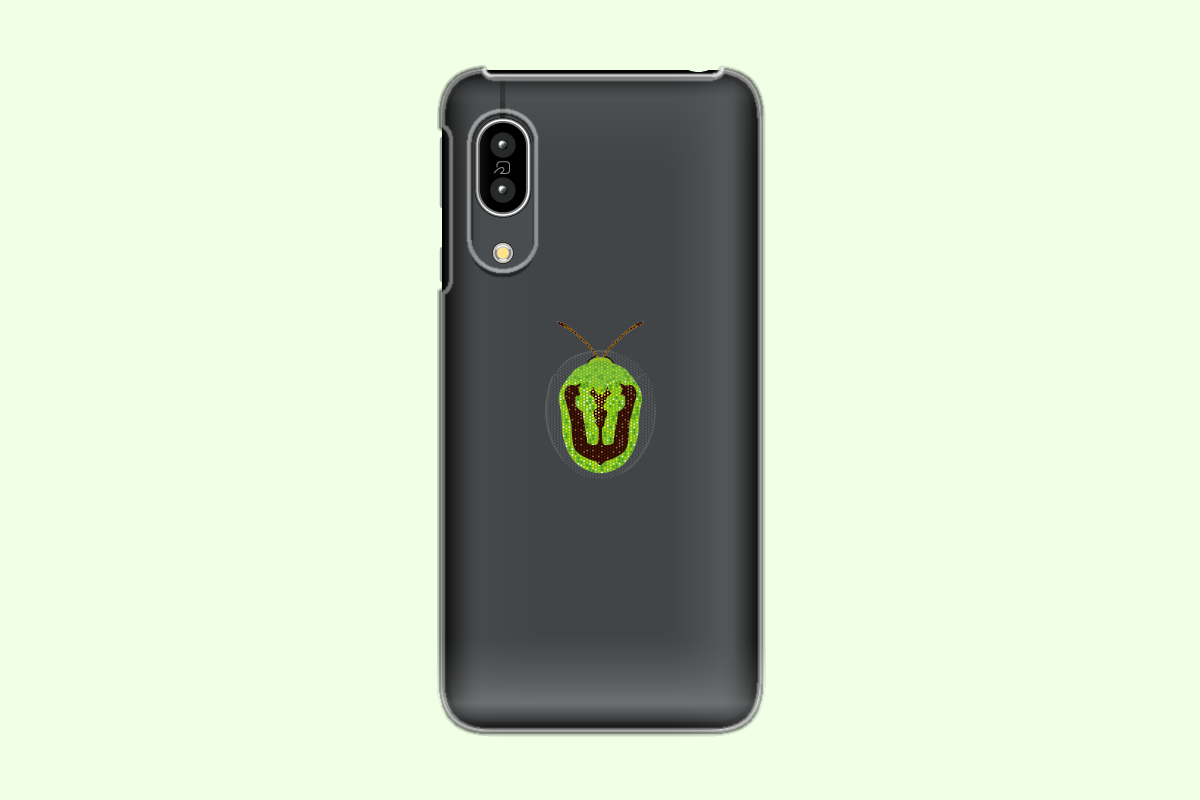
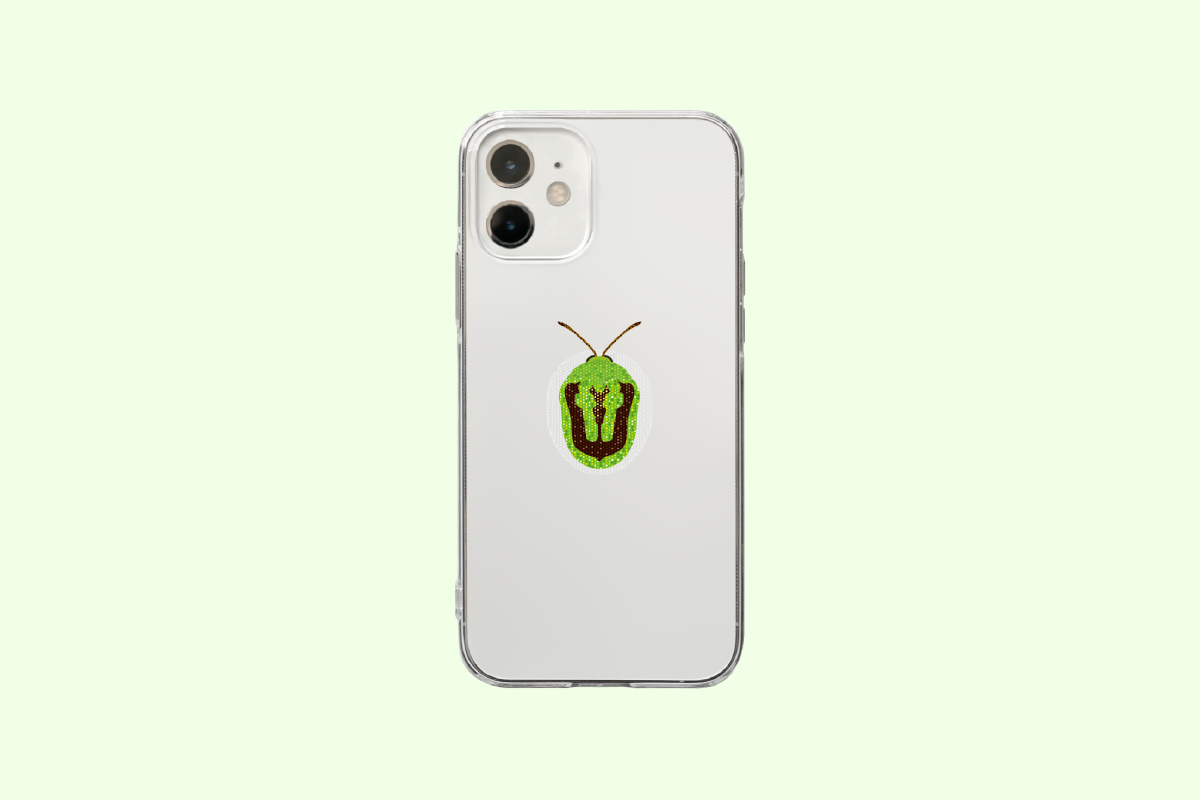
add: Prices in works page

Changed region(s): [[0.3392, 0.0625, 0.6475, 0.9375]]

diff --git a/worksData/works.tsx b/worksData/works.tsx
@@ -4,6 +4,8 @@ const worksData: Work[] = [
   {
     id: "tentou-playing-cards",
     title: "テントウトランプ",
+    price: "¥ 2,800",
+    category: "トランプ",
     descriptionShort: "日本には現在約190種のテントウムシがいます。その中から、トランプの数字に対応する模様を持った36種を選び、リアルなイラストに仕上げました。",
     descriptionLong: "日本には現在約190種のテントウムシがいます。その中から、トランプの数字に対応する模様を持った36種を選び、リアルなイラストに仕上げました。それぞれの種類の体型・触角・眼・脚など、各部位の形状にもこだわった、超マニアックな一品です！",
     imageUrl: [
@@ -20,6 +22,8 @@ const worksData: Work[] = [
   {
     id: "horseshoecrab-papercraft",
     title: "カブトガニの幼生のペーパークラフト",
+    price: "¥ 500",
+    category: "ペーパークラフト",
     descriptionShort: "カブトガニの10齢幼生のペーパークラフトです。細かいパーツまでリアルな作りになっています。",
     descriptionLong: "カブトガニの10齢幼生のペーパークラフトです。細かいパーツまでリアルな作りになっています。ご購入いただくと、PDFファイルの展開図がダウンロードできます。ぜひ紙で立体作品を作る楽しさを見つけてみてください！",
     imageUrl: [
@@ -34,6 +38,8 @@ const worksData: Work[] = [
   {
     id: "maimaikaburi-papercraft",
     title: "マイマイカブリのペーパークラフト",
+    price: "¥ 500",
+    category: "ペーパークラフト",
     descriptionShort: "マイマイカブリ基亜種（ホンマイ）のペーパークラフトです。ぜひ紙で立体作品を作る楽しさを見つけてみてください！",
     descriptionLong: "マイマイカブリ基亜種（ホンマイ）のペーパークラフトです。曲線に沿って折ることで立体感を表現しています。ご購入いただくと、PDFファイルの展開図がダウンロードできます。ぜひ紙で立体作品を作る楽しさを見つけてみてください！",
     imageUrl: [
@@ -48,6 +54,8 @@ const worksData: Work[] = [
   {
     id: "kamenokotentou-papercraft",
     title: "カメノコテントウのペーパークラフト",
+    price: "¥ 500",
+    category: "ペーパークラフト",
     descriptionShort: "日本最大級のテントウムシ、カメノコテントウ。細かいパーツまでリアルに作りました。切り込みを模様に重ね、継ぎ目の見えない構造になっています。",
     descriptionLong: "日本最大級のテントウムシ、カメノコテントウ。細かいパーツまでリアルに作りました。切り込みを模様に重ね、継ぎ目の見えない構造になっています。ご購入いただくと、PDFファイルの展開図がダウンロードできます。ぜひ手のひらサイズのカメノコテントウを作ってみてください!",
     imageUrl: [
@@ -62,6 +70,8 @@ const worksData: Work[] = [
   {
     id: "tentou-postcard-1",
     title: "テントウムシの正面顔絵はがき",
+    price: "¥ 800",
+    category: "絵はがきセット",
     descriptionShort: "普段なかなか見ることのないテントウムシの正面顔を絵はがきにしました。種類によって様々な特徴があることに気付くと、虫を見る楽しみが更に増えていくと思います！",
     descriptionLong: "普段なかなか見ることのないテントウムシの正面顔を絵はがきにしました。カメノコテントウ、ムネアカオオクロテントウ、ハラグロオオテントウ(幼虫)、ハイイロテントウ、アミダテントウのセットです。種類によって眼の大きさ・頭の模様・体型など、様々な特徴があることに気付くと、虫を見る楽しみが更に増えていくと思います。",
     imageUrl: [
@@ -75,6 +85,8 @@ const worksData: Work[] = [
   {
     id: "tentou-postcard-2",
     title: "テントウムシの絵はがき2",
+    price: "¥ 800",
+    category: "絵はがきセット",
     descriptionShort: "テントウムシ絵はがきの第２弾です。第１弾は正面顔ですが、今回は同じ種類の別の角度からの写真です。テントウムシの多様な姿をお楽しみください",
     descriptionLong: "テントウムシ絵はがきの第２弾です。第１弾は正面顔ですが、今回は同じ種類の別の角度からの写真です。カメノコテントウ、ムネアカオオクロテントウ、ハラグロオオテントウ(幼虫)、ハイイロテントウ、アミダテントウのセットです。テントウムシの多様な姿をお楽しみください!",
     imageUrl: [
@@ -88,6 +100,8 @@ const worksData: Work[] = [
   {
     id: "kasai-tshirt",
     title: "カサイテントウのTシャツ",
+    price: "¥ 3,619",
+    category: "Tシャツ",
     descriptionShort: "珍しい、かっこいい、大きいという、珍・美・大を兼ね備えたカサイテントウの模様を抜き出してデザインしました。日本で似た模様のテントウはおらず、特別感の強い、作者も憧れの種です。",
     descriptionLong: "珍しい、かっこいい、大きいという、珍・美・大を兼ね備えたカサイテントウの模様を抜き出してデザインしました。北海道の一部にしか分布せず、五葉松の仲間につくアブラムシを食べます。日本で似た模様のテントウはおらず、特別感の強い、作者も憧れの種です。",
     imageUrl: [
@@ -101,6 +115,8 @@ const worksData: Work[] = [
   {
     id: "amida-tshirt",
     title: "アミダテントウのTシャツ",
+    price: "¥ 3,619",
+    category: "Tシャツ",
     descriptionShort: "アミダテントウAmida tricolor (Harold, 1878)の模様のTシャツです。",
     descriptionLong: "アミダテントウAmida tricolor (Harold, 1878)の模様のTシャツです。",
     imageUrl: [
@@ -114,6 +130,8 @@ const worksData: Work[] = [
   {
     id: "yahoshi-tshirt",
     title: "ヤホシテントウのTシャツ",
+    price: "¥ 2,882 - 3,619",
+    category: "Tシャツ",
     descriptionShort: "沖縄より南にしかいないテントウムシ。湿地に生える植物の葉の上で生活しています。様々なバリエーションの模様をしているのにヤホシという名前が付いているのは、学名から取っているからでしょう。",
     descriptionLong: "沖縄より南にしかいないテントウムシ、ヤホシテントウのTシャツです！湿地に生える植物の葉の上で生活しています。様々なバリエーションの模様をしているのにヤホシという名前が付いているのは、学名から取っているからでしょう。",
     imageUrl: [
@@ -127,6 +145,8 @@ const worksData: Work[] = [
   {
     id: "kasai-tshirt-smallscale",
     title: "カサイテントウのワンポイントTシャツ",
+    price: "¥ 2,882 - 3,619",
+    category: "Tシャツ",
     descriptionShort: "珍しい、かっこいい、大きいという、珍・美・大を兼ね備えたカサイテントウの模様を抜き出してデザインしました。北海道の一部にしか分布せず、五葉松の仲間につくアブラムシを食べます。日本で似た模様のテントウはおらず、特別感の強い、作者も憧れの種です。",
     descriptionLong: "珍しい、かっこいい、大きいという、珍・美・大を兼ね備えたカサイテントウの模様を抜き出してデザインしました。北海道の一部にしか分布せず、五葉松の仲間につくアブラムシを食べます。日本で似た模様のテントウはおらず、特別感の強い、作者も憧れの種です。",
     imageUrl: [
@@ -140,6 +160,8 @@ const worksData: Work[] = [
   {
     id: "amida-tshirt-smallscale",
     title: "アミダテントウのワンポイントTシャツ",
+    price: "¥ 2,882 - 3,619",
+    category: "Tシャツ",
     descriptionShort: "アミダテントウAmida tricolor (Harold, 1878)の模様のTシャツです。",
     descriptionLong: "アミダテントウAmida tricolor (Harold, 1878)の模様のTシャツです。",
     imageUrl: [
@@ -153,6 +175,8 @@ const worksData: Work[] = [
   {
     id: "jyuusannhoshi-tshirt-smallscale",
     title: "ジュウサンホシテントウのワンポイントTシャツ",
+    price: "¥ 2,882 - 3,619",
+    category: "Tシャツ",
     descriptionShort: "上翅に13個の紋がある、湿地性の種です。テントウムシらしからぬ細長い体型が一部の層に人気です。ヨシなどの植物の隙間に入れるように、このような薄く細長い体になったのかもしれません。",
     descriptionLong: "上翅に13個の紋がある、湿地性の種です。テントウムシらしからぬ細長い体型が一部の層に人気です。ヨシなどの植物の隙間に入れるように、このような薄く細長い体になったのかもしれません。",
     imageUrl: [
@@ -166,6 +190,8 @@ const worksData: Work[] = [
   {
     id: "phone-case-tatesujihimejinngasahamushi",
     title: "タテスジヒメジンガサハムシのスマホケース",
+    price: "¥ 2,750",
+    category: "スマホケース",
     descriptionShort: "日本で最も美しいカメノコハムシ類とも言える、タテスジヒメジンガサハムシのスマホケースです。クリアケースで翅の透明感を表現しました。",
     descriptionLong: "日本で最も美しいカメノコハムシ類とも言える、タテスジヒメジンガサハムシのスマホケースです。クリアケースで翅の透明感を表現しました。",
     imageUrl: [
@@ -177,14 +203,16 @@ const worksData: Work[] = [
     isPickedUp: false
   },
   {
-    id: "phone-case-tatesujihimejinngasahamushi",
+    id: "phone-case-pop",
     title: "ポップなテントウムシ スマホケース",
+    price: "¥ 3,410",
+    category: "スマホケース",
     descriptionShort: "様々なテントウムシをプリントしたポップなスマホケースです。テントウ同士の大きさは、それぞれ実際の比率に近いものになっています。図鑑で種類を調べて楽しむのもおすすめです！",
     descriptionLong: "様々なテントウムシをプリントしたポップなスマホケースです。テントウ同士の大きさは、それぞれ実際の比率に近いものになっています。図鑑で種類を調べて楽しむのもおすすめです！",
     imageUrl: [
       "smartphone_case_img.png"
     ],
-    shopLink: "https://suzuri.jp/Tentouya/6006661/soft-clear-smartphone-case/iphone12-mini/clear",
+    shopLink: "https://suzuri.jp/Tentouya/6006972/book-style-smartphone-case/iphone12/white",
     youTubeLink: "",
     ogpUrl: "",
     isPickedUp: false
@@ -192,6 +220,8 @@ const worksData: Work[] = [
   {
     id: "beating-net-bandana",
     title: "ビーティングネットバンダナ",
+    price: "¥ 2,530",
+    category: "バンダナ",
     descriptionShort: "ビーティングネット型のバンダナです。ハンカチとしても使用できます。ネットの上には南西諸島でソテツから採れるテントウムシが乗っています。ビーティングネットは草や木を叩いて落ちてくる虫を採るための道具で、甲虫やカメムシ、クモなどの採集によく使われます。テントウの種類は左上からチュウジョウテントウ、チビテントウの一種、ケブカメツブテントウ、アマミアカホシテントウです。",
     descriptionLong: "ビーティングネット型のバンダナです。ハンカチとしても使用できます。ネットの上には南西諸島でソテツから採れるテントウムシが乗っています。ビーティングネットは草や木を叩いて落ちてくる虫を採るための道具で、甲虫やカメムシ、クモなどの採集によく使われます。テントウの種類は左上からチュウジョウテントウ、チビテントウの一種、ケブカメツブテントウ、アマミアカホシテントウです。",
     imageUrl: [

diff --git a/components/pages/DetailPage.tsx b/components/pages/DetailPage.tsx
@@ -11,6 +11,7 @@ import OpenInNew from '../icons/OpenInNew'
 import SpacerInline from '../ui/SpacerInline'
 import DetailAdditionalInfo from '../divided/DetailAdditionalInfo'
 import DetailImage from '../ui/DetailImage'
+import { supportingTextColor } from '../../styles/colors'
 
 type Props = {
   data: Work
@@ -36,16 +37,24 @@ const WorksPage: React.FC<Props> = (props) => {
             <Title text={props.data.title} />
 
             <DetailImage src={`/images/thumbnails/${props.data.imageUrl[0]}`} />
-            <Spacer y={10} />
+
+            <p css={supportingTextStyle}>
+              {props.data.category + " / "}
+              <span css={priceStyle}>{props.data.price}</span>
+            </p>
+
+            <Spacer y={30} />
 
             <Button text="購入ページへ" link={props.data.shopLink} >
               <SpacerInline x={3} />
               <OpenInNew size={22} />
             </Button>
 
+            <Spacer y={30} />
             <p css={textStyle}>
               {props.data.descriptionLong}
             </p>
+            <Spacer y={30} />
 
             <DetailAdditionalInfo data={props.data} />
 
@@ -74,8 +83,17 @@ const containerStyle = css`
 const textStyle = css`
   font-size: 12pt;
   text-align: left;
-  margin: 30px 0;
   padding: 0 10px;
+`
+const supportingTextStyle = css`
+  font-size: 10pt;
+  text-align: left;
+  padding: 0 10px;
+  color: ${supportingTextColor};
+`
+const priceStyle = css`
+  font-size: 11pt;
+  font-weight: 500;
 `
 
 

diff --git a/worksData/tentouPlayingCardsData.tsx b/worksData/tentouPlayingCardsData.tsx
@@ -152,7 +152,7 @@ const tentouPlayingCardsData: PlayingCard[] = [
     scientificNameItalic: "Medamatento ocularis",
     scientificNameUpright: "(Sasaji, 1988)",
     rarity: 5,
-    description: "沖縄本島にのみ分布する、体長1mmちょっとの非常に小さい種です。名前の通りの大きな眼と、テントウムシらしからぬ楕円形で平たい体形が特徴です。前側の2対の紋は見えづらくなることも多く、2♧のミヤタケメダマテントウとの区別が難しいこともあります。"
+    description: "沖縄本島にのみ分布する、体長1mmちょっとの非常に小さい種です。名前の通りの大きな眼と、テントウムシらしからぬ楕円形で平たい体形が特徴です。前側の2対の紋は見えづらくなることも多く、2\u2663のミヤタケメダマテントウとの区別が難しいこともあります。"
   },
   {
     number: "5",

diff --git a/components/pages/TentoufukuwaraiPage.tsx b/components/pages/TentoufukuwaraiPage.tsx
@@ -1,0 +1,26 @@
+import React from 'react'
+import { css } from '@emotion/react'
+import Title from '../ui/Title'
+import Spacer from '../ui/Spacer'
+import BackNavigation from '../ui/BackNavigation'
+import SectionContainer from '../ui/SectionConteiner'
+
+const TentoufukuwaraiPage: React.FC = () => {
+  return (
+    <div css={layoutStyle}>
+      <BackNavigation text="トップ" link="/" />
+
+      <SectionContainer padding={0}>
+        <Title text="テントウ福笑い" />
+        <Spacer y={10} />
+
+      </SectionContainer>
+    </div>
+  )
+}
+
+const layoutStyle = css`
+  min-height: 100vh;
+`
+
+export default TentoufukuwaraiPage

diff --git a/components/divided/TopFukuwarai.tsx b/components/divided/TopFukuwarai.tsx
@@ -1,5 +1,4 @@
 import React from 'react'
-import { css } from '@emotion/react'
 import SectionContainer from '../ui/SectionConteiner'
 import Title from '../ui/Title'
 import TopCard from '../ui/TopCard'
@@ -9,6 +8,8 @@ const TopFukuwarai: React.FC = () => {
   const data: Work = {
     id: "tentoufukuwarai",
     title: "テントウ福笑い",
+    price: "",
+    category: "",
     descriptionShort: "Web上で遊べるテントウムシの福笑いを作ってみました。",
     descriptionLong: "バラバラになった模様を元の位置に戻してテントウムシを完成させよう！",
     imageUrl: [

diff --git a/pages/tentoufukuwarai.tsx b/pages/tentoufukuwarai.tsx
@@ -1,0 +1,9 @@
+import TentoufukuwaraiPage from '../components/pages/TentoufukuwaraiPage'
+
+const Tentoufukuwarai: React.FC = () => {
+  return (
+    <TentoufukuwaraiPage />
+  )
+}
+
+export default Tentoufukuwarai

diff --git a/types/Work.type.ts b/types/Work.type.ts
@@ -1,6 +1,8 @@
 export type Work = {
   id: string,
   title: string,
+  price: string,
+  category: string,
   descriptionShort: string,
   descriptionLong: string,
   imageUrl: string[],
